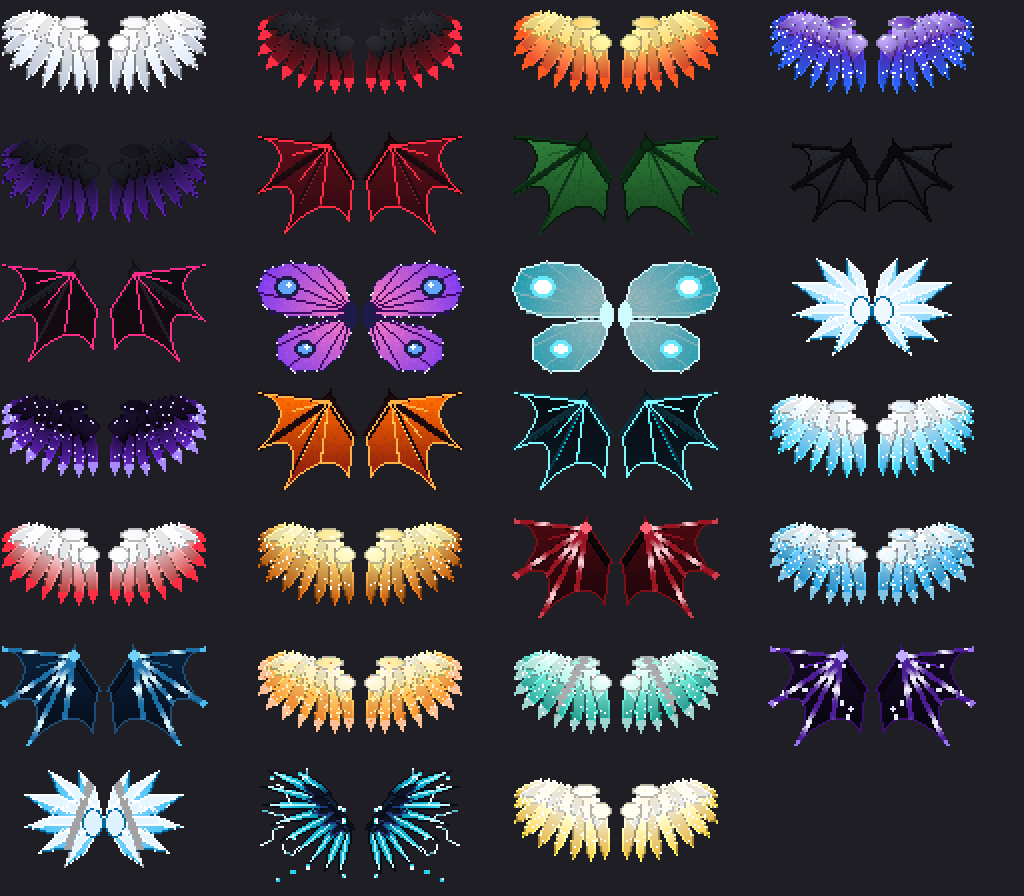
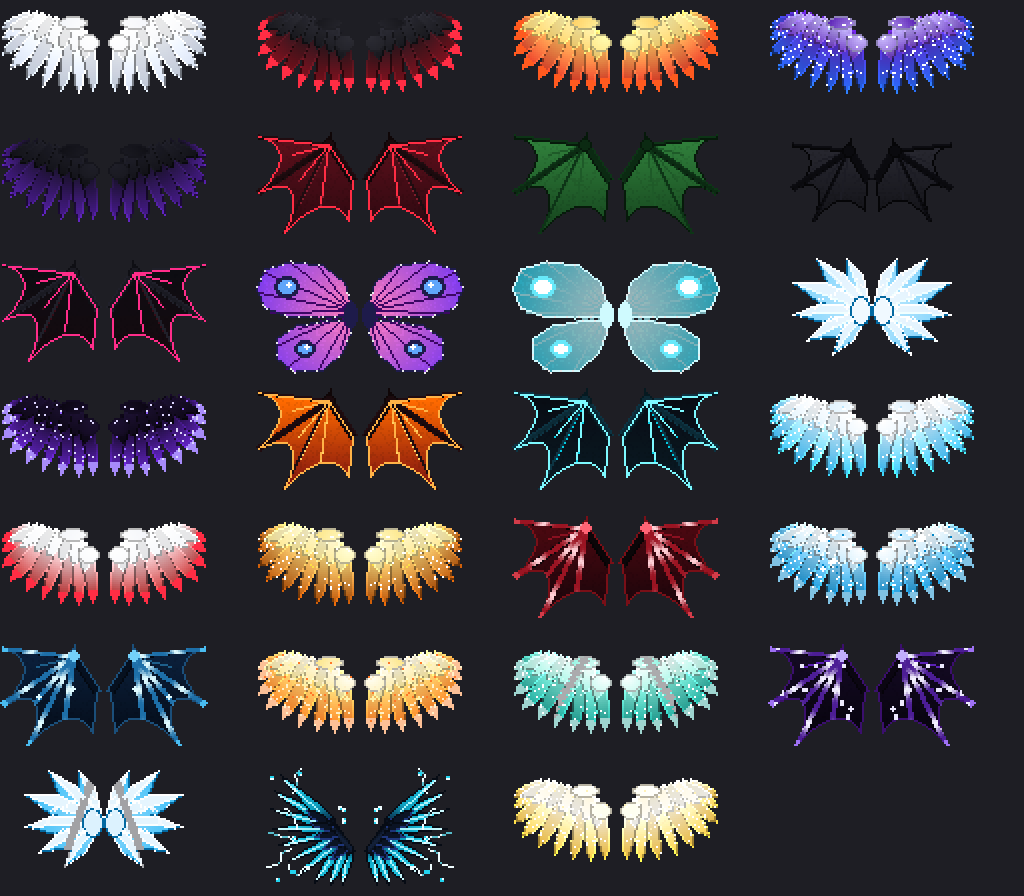
Wings Voltage: kleiner (Maßstab 0,92) und Ansatz unterhalb der Schultern auf der Rückenmitte

Changed region(s): [[0.25, 0.8438, 0.4375, 1.0]]

diff --git a/scripts/gen_wings.py b/scripts/gen_wings.py
@@ -475,14 +475,14 @@ def draw_voltage(L, k, n):
     Kontur; dunkle Oberkante (Arm + Deckfedern); dünne Blitze zucken um die Schwinge herum, Funken in der Luft."""
     t = k / n
     dark, deep, teal, cyan, ice, white = rgba("#060B14"), rgba("#0C2D4A"), rgba("#0891B2"), rgba("#22D3EE"), rgba("#A5F3FC"), rgba("#F0FDFF")
-    S, E = (4.0, 31.0), (17.0, 13.0)  # Schulter → Ellbogen (Arm zeigt nach oben-außen)
+    S, E = (4.0, 42.0), (15.0, 26.0)  # Ansatz unterhalb der Schultern (Rückenmitte) → Ellbogen, Arm zeigt nach oben-außen
     nf = 10
     feathers = []
     for i in range(nf):
         f = i / (nf - 1)
         base = (E[0] + (S[0] - E[0]) * f * 0.85, E[1] + (S[1] - E[1]) * f * 0.85)
-        ang = -38 + 118 * f
-        ln = 36 - 11 * f * f
+        ang = -42 + 124 * f
+        ln = 33 - 12 * f * f
         ln = clamp_len(base, ang, ln, margin=1.0)
         feathers.append((base, ang, ln, 6.0 - 0.8 * f, i))
     # Federn von unten nach oben zeichnen (obere liegen vorne)
@@ -625,7 +625,7 @@ DESIGNS = [
     W_("frostbite", "Frostbite", "LEGENDÄR · Eiskristalle mit wanderndem Kälteschimmer und tanzenden Eisfunken – nur mit Code.", "🧊",
        draw_frostbite, ["#E0F2FE", "#38BDF8", "#FFFFFF"], flapSpeed=0.055, flapAmp=12, openAngle=40, tilt=12, scale=1.15, glow=True, particle="frostbite", frames=8, fps=8, exclusive=True),
     W_("voltage", "Voltage", "LEGENDÄR · Nachtschwarze Federn, in denen elektrisch-blaue Energie glüht – Blitze zucken über und um die Schwingen – nur mit Code.", "🌩",
-       draw_voltage, ["#060B14", "#22D3EE", "#F0FDFF"], flapSpeed=0.075, flapAmp=20, openAngle=48, tilt=18, scale=1.25, glow=True, particle="voltage", frames=8, fps=12, exclusive=True),
+       draw_voltage, ["#060B14", "#22D3EE", "#F0FDFF"], flapSpeed=0.075, flapAmp=18, openAngle=42, tilt=12, scale=0.92, glow=True, particle="voltage", frames=8, fps=12, exclusive=True),
     W_("seraph", "Seraphim", "Drei Lagen leuchtend weißer Federn mit goldenem Saum – überirdisch.", "👼",
        lambda L: draw_feathered(L, rgba("#FFFFFF"), rgba("#F5C342"), rgba("#FFF8E1"), outline_f=0.68, stars=((255, 255, 255, 255), 18, (255, 241, 184, 255))),
        ["#FFFFFF", "#F5C342", "#FFF8E1"], flapSpeed=0.06, flapAmp=14, openAngle=44, tilt=14, scale=1.12, glow=True, particle="glow"),
